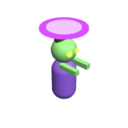
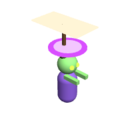
[feat] In-app update check against release.json written by the TestFlight workflow (soft prompt for a newer build, required below min); zombies carry a "좀비" sign board
The workflow now publishes release.json on the `release` branch after each upload (creating the branch on first run); www/update.js holds the pure rules, index.html shows the card and opens the store link.

Changed region(s): [[0.25, 0.0938, 0.7812, 0.8125]]

diff --git a/www/index.html b/www/index.html
@@ -193,6 +193,9 @@
   .ob-days { display: flex; gap: 6px; } .ob-days span { width: 36px; height: 36px; border-radius: 50%; display: grid; place-items: center; background: rgba(255,255,255,.12); font: 13px var(--display); }
   .ob-days span.on { background: var(--star); color: #2a1a05; }
   #onboard .btns { width: min(100%, 300px); margin-top: auto; }
+  /* The update card: same character-and-card look as onboarding, centred, two buttons (one when the update is required). */
+  #update { gap: 18px; background: radial-gradient(circle at 50% 30%, #3b2070 0%, #170a2e 70%); }
+  #update .btns { width: min(100%, 300px); margin-top: 8px; }
   /* Celebration step: a dark violet glow, the face popping in, the stars landing one after another. */
   #cheer { background: radial-gradient(circle at 50% 38%, #3b2070 0%, #170a2e 65%); justify-content: center; gap: 18px; }
   #cheer .cheer-face { width: 168px; height: 168px; animation: cheerpop .6s cubic-bezier(.2, 1.6, .4, 1) both; }
@@ -534,6 +537,11 @@
   <div class="obcard"><img class="ico big" id="ob-ico" src="img/ui/moon.svg" alt=""><p id="ob-body"></p><div class="ob-days hidden" id="ob-days"></div></div>
   <div class="btns"><div class="btn hero" id="btn-ob">계속</div></div>
 </div>
+<div id="update" class="overlay hidden">
+  <div class="obtalk"><img class="face-big" id="up-face" src="img/ui/face-excited.svg" alt=""><div class="bubble" id="up-say"></div></div>
+  <div class="obcard"><img class="ico big" src="img/ui/gift.svg" alt=""><p id="up-body"></p></div>
+  <div class="btns"><div class="btn hero" id="btn-update">업데이트</div><div class="btn ghost" id="btn-update-later">나중에</div></div>
+</div>
 <div id="daily" class="overlay hidden">
   <div class="dexwin">
     <div class="dexhead"><span>출석 보상</span><span class="x" id="btn-daily-back" aria-label="닫기" style="margin-left: auto">×</span></div>
@@ -685,6 +693,7 @@
 <script src="config.js"></script>
 <script src="sync.js"></script>
 <script src="account.js"></script>
+<script src="update.js"></script>
 <script>
 (() => {
   'use strict';
@@ -1984,7 +1993,7 @@
 
   function show(id) {
     if (id && id !== 'pause') { Sound.music.mode('title'); Sound.music.rush(false); if (id === 'title') Sound.music.tune('town'); } // menus get the quiet arrangement
-    for (const o of ['title', 'onboard', 'select', 'pause', 'cheer', 'end', 'no3d', 'shop', 'account', 'ranking', 'dex', 'badges', 'info', 'levelinfo', 'twist', 'cont', 'daily', 'missions']) $(o).classList.toggle('hidden', o !== id);
+    for (const o of ['title', 'onboard', 'update', 'select', 'pause', 'cheer', 'end', 'no3d', 'shop', 'account', 'ranking', 'dex', 'badges', 'info', 'levelinfo', 'twist', 'cont', 'daily', 'missions']) $(o).classList.toggle('hidden', o !== id);
     $('hud').classList.toggle('hidden', id !== null && id !== 'pause');
     if (id !== null) $('tutorial').classList.add('hidden');
   }
@@ -2364,7 +2373,7 @@
   // ---------- cloud save ----------
   // updatedAt moves only on real changes (a finished run, a wallet that differs), never on loading or on
   // applying a merged save, so an old phone that is merely opened cannot win the "newest save" rule.
-  const Account = window.DuskAccount;
+  const Account = window.DuskAccount, Update = window.DuskUpdate;
   let meta = { updatedAt: 0, syncedAt: null }, applying = false, lastWallet = null;
   const touched = () => { meta.updatedAt = Date.now(); save('dusk-sync-meta', meta); if (Account.user) Account.sync(); };
   const accountHooks = {
@@ -2431,14 +2440,74 @@
   $('ob-skip').addEventListener('pointerup', endOnboard);
 
   const whenReady = f => () => ready.then(f);
+
+  // ---------- update check ----------
+  // While saves load, the app's build (App plugin) is compared with the newest one in release.json (DuskUpdate). A newer build
+  // asks once per build ("업데이트" / "나중에"); a build below the file's `min` has to update before playing. Offline, slow (4 s),
+  // or in the browser demo the game simply starts. Tests inject { build, info } as __DUSK_TEST__.update.
+  let appBuild = 0;
+  async function updateDecision() {
+    const T = window.__DUSK_TEST__ && window.__DUSK_TEST__.update;
+    const cap = window.Capacitor, App = cap && cap.Plugins && cap.Plugins.App;
+    let info = T ? T.info : null;
+    try {
+      if (T) appBuild = +T.build;
+      else {
+        if (!(cap && cap.isNativePlatform && cap.isNativePlatform()) || !App) return null;
+        appBuild = +(await App.getInfo()).build;
+        const ctl = new AbortController(), tm = setTimeout(() => ctl.abort(), 4000);
+        const res = await fetch(Update.RELEASE_URL + '?t=' + Math.floor(Date.now() / 300000), { cache: 'no-store', signal: ctl.signal }); // past the CDN cache every 5 min
+        clearTimeout(tm); if (!res.ok) return null;
+        info = (await res.json()).ios;
+      }
+    } catch (e) { return null; }
+    let skipped = 0; try { skipped = +localStorage.getItem('dusk-update-skip'); } catch (e) { /* no storage: ask again next time */ }
+    const u = Update.check(appBuild, info, Date.now(), skipped);
+    return u.kind === 'none' ? null : u;
+  }
+  const updateCheck = updateDecision(); // starts at load, alongside `ready`
+  let updateShown = null;
+  function openUpdate(u) {
+    const force = u.kind === 'force', store = Update.storeName(u.url);
+    updateShown = u;
+    $('up-face').src = `img/ui/face-${force ? 'determined' : 'excited'}.svg`;
+    $('up-say').textContent = force ? '업데이트가 필요해!' : '새 버전이 나왔어!';
+    $('up-body').textContent = force
+      ? `지금 버전(빌드 ${appBuild})은 더 쓸 수 없어요. ${store}에서 빌드 ${u.latest}로 업데이트하면 바로 이어서 할 수 있어요.`
+      : `새 빌드가 올라왔어요: ${appBuild} → ${u.latest}. ${store}에서 업데이트하면 새로 바뀐 것들을 볼 수 있어요.`;
+    $('btn-update').textContent = `${store}에서 업데이트`;
+    $('btn-update').classList.toggle('hidden', !u.url);
+    $('btn-update-later').classList.toggle('hidden', force);
+    state = 'update'; show('update');
+  }
+  // TestFlight / App Store links (itms-…) are custom schemes: the web view hands them to iOS, which opens the store app.
+  function openStore(url) {
+    const cap = window.Capacitor, Browser = cap && cap.Plugins && cap.Plugins.Browser;
+    if (window.__DUSK_TEST__) { window.__DUSK_TEST__.opened = url; return; }
+    if (/^https:/.test(url) && Browser) Browser.open({ url }).catch(() => { location.href = url; });
+    else location.href = url;
+  }
+  $('btn-update').addEventListener('pointerup', () => { if (updateShown && updateShown.url) openStore(updateShown.url); });
+  $('btn-update-later').addEventListener('pointerup', () => {
+    if (!updateShown || updateShown.kind === 'force') return;
+    try { localStorage.setItem('dusk-update-skip', String(updateShown.latest)); } catch (e) { /* asked again next launch */ }
+    updateShown = null; state = 'title'; show('title'); popups();
+  });
+
+  // The title screen's greetings, in order of urgency: an update, the first-run cards, the day's check-in.
+  function popups() {
+    const T = window.__DUSK_TEST__; // automated checks opt in with { daily: true } / { onboard: true }, so popups don't cover their title screen
+    if (state !== 'title') return;
+    if (!onboarded() && !Object.keys(bestStars).length && (!T || T.onboard)) openOnboard();
+    else if (Shop.dailyDue(Store.wallet, dayKey()) && (!T || T.daily)) openDaily();
+  }
   // Saved progress and the store usually load at once; if not, say so instead of a start button that seems dead.
   const slow = setTimeout(() => { $('btn-title').classList.add('wait'); $('btn-title').textContent = '불러오는 중…'; }, 400);
-  ready.then(() => {
+  ready.then(async () => {
     clearTimeout(slow); $('btn-title').classList.remove('wait'); $('btn-title').textContent = '시작';
-    // the day's check-in greets you on the title screen, once a day
-    const T = window.__DUSK_TEST__; // automated checks opt in with { daily: true } / { onboard: true }, so popups don't cover their title screen
-    if (state === 'title' && !onboarded() && !Object.keys(bestStars).length && (!T || T.onboard)) openOnboard();
-    else if (state === 'title' && Shop.dailyDue(Store.wallet, dayKey()) && (!T || T.daily)) openDaily();
+    const u = await updateCheck; // already settled in the common case; capped at 4 s by the fetch
+    if (u && (u.kind === 'force' || state === 'title')) openUpdate(u); // a required update interrupts even a run
+    else popups();
   });
 
   $('btn-shop-title').addEventListener('pointerup', whenReady(() => openShop('title')));

diff --git a/www/render3d.js b/www/render3d.js
@@ -27,7 +27,21 @@
   // A part is a unit geometry scaled by [sx, sy, sz] * object radius, lifted by y * r and
   // shifted by o = [forward, side] * r in the object's own frame. color 'inst' takes the object's
   // own color; glow parts ignore lighting (headlights).
-  const P = (geo, s, y, color, o, glow) => ({ geo, s, y, color, o, glow });
+  const P = (geo, s, y, color, o, glow, tex) => ({ geo, s, y, color, o, glow, tex });
+  // A painted sign board (tex = the words), unlit so it reads at night too: drawn once per word.
+  const signTextures = {};
+  function signTex(text) {
+    if (signTextures[text]) return signTextures[text];
+    // The box's top face maps the canvas's width along the part's forward (long) side, so the words run along the board.
+    const c = document.createElement('canvas'); c.width = 256; c.height = 128;
+    const g = c.getContext('2d');
+    g.fillStyle = '#fff5d6'; g.fillRect(0, 0, 256, 128);
+    g.strokeStyle = '#7a1f1f'; g.lineWidth = 12; g.strokeRect(6, 6, 244, 116);
+    g.fillStyle = '#c8102e'; g.font = 'bold 92px -apple-system, "Apple SD Gothic Neo", "Noto Sans KR", sans-serif';
+    g.textAlign = 'center'; g.textBaseline = 'middle'; g.fillText(text, 128, 68);
+    const t = new T.CanvasTexture(c); t.anisotropy = 4;
+    return (signTextures[text] = t);
+  }
   const HAIR = '#4a3426', SKIN = '#f6d2b0';
   // Prop parts drawn into the shadow map: the crown, canopy or body only (no trunks, poles, fruit or ornaments), the same
   // shapes the game's shade rule models (index.html SHADE, core propShadow). type -> part indices.
@@ -44,7 +58,9 @@
     zombie:    [P('capsule', [0.55, 0.5, 0.55], 1.0, 'inst'), P('sphere', [0.55, 0.55, 0.55], 2.45, '#8fe07a'), P('sphere', [0.3, 0.2, 0.34], 2.88, '#2a3a1e', [-0.12, 0]), // a bald green head with a tuft, so it reads green from above
                 P('box', [0.9, 0.22, 0.22], 1.9, '#8fe07a', [0.6, 0.35]), P('box', [0.9, 0.22, 0.22], 1.9, '#8fe07a', [0.6, -0.35]),
                 P('sphere', [0.13, 0.13, 0.13], 2.5, '#eaff5c', [0.48, 0.2], true), P('sphere', [0.13, 0.13, 0.13], 2.5, '#eaff5c', [0.48, -0.2], true),
-                P('cyl', [1.0, 0.07, 1.0], 3.45, '#d94fff', undefined, true), P('cyl', [0.72, 0.09, 0.72], 3.45, '#f3c6ff', undefined, true)], // a violet halo over the head: flat, so it shows from above
+                P('cyl', [1.0, 0.07, 1.0], 3.45, '#d94fff', undefined, true), P('cyl', [0.72, 0.09, 0.72], 3.45, '#f3c6ff', undefined, true), // a violet halo over the head: flat, so it shows from above
+                // a "좀비" sign on a post above the halo (TestFlight ask): the board lies flat so the word reads from the camera
+                P('cyl', [0.1, 1.3, 0.1], 4.0, '#6b4a2b', [-0.25, 0]), P('box', [3.0, 0.06, 1.6], 4.65, '#fff5d6', [-0.25, 0], true, '좀비')],
     cat:       [P('blob', [1.1, 0.6, 0.6], 0.6, 'inst'), P('sphere', [0.5, 0.48, 0.5], 1.05, 'inst', [1.0, 0]),
                 P('cone', [0.17, 0.4, 0.17], 1.55, 'inst', [1.05, 0.26]), P('cone', [0.17, 0.4, 0.17], 1.55, 'inst', [1.05, -0.26]),
                 P('cyl', [0.12, 1.0, 0.12], 1.0, 'inst', [-1.1, 0])],
@@ -637,7 +653,7 @@
       for (const [type, list] of Object.entries(byType)) {
         for (const part of PARTS[type]) {
           const c = part.color === 'inst' ? '#ffffff' : part.color;
-          const mat = part.glow ? new T.MeshBasicMaterial({ color: col(c) }) : lambert(c);
+          const mat = part.tex ? new T.MeshBasicMaterial({ map: signTex(part.tex) }) : part.glow ? new T.MeshBasicMaterial({ color: col(c) }) : lambert(c);
           const im = new T.InstancedMesh(low[part.geo], mat, list.length);
           im.receiveShadow = true;
           if (CASTERS[type] && CASTERS[type].includes(PARTS[type].indexOf(part))) im.castShadow = true; // shades the ground, as the rule says

diff --git a/test/update.unit.test.js b/test/update.unit.test.js
@@ -1,0 +1,51 @@
+// Layer: Unit — the update-check rules in www/update.js (this build vs release.json), no network, no DOM.
+const test = require('node:test');
+const assert = require('node:assert/strict');
+const U = require('../www/update.js');
+
+const TF = 'itms-beta://beta.itunes.apple.com/v1/app/6828737098';
+const info = (over) => Object.assign({ build: 54, version: '1.0', min: 0, availableAt: '2026-11-13T02:00:00Z', url: TF }, over);
+const NOW = Date.parse('2026-11-13T03:00:00Z');
+
+test('the newest build, already out for a while, is offered once; the same or a newer app is left alone', () => {
+  assert.deepEqual(U.check(53, info(), NOW, 0), { kind: 'soft', latest: 54, url: TF });
+  assert.equal(U.check(54, info(), NOW, 0).kind, 'none');
+  assert.equal(U.check(55, info(), NOW, 0).kind, 'none');
+  assert.equal(U.check('53', info(), NOW, 0).kind, 'soft', 'the App plugin hands the build over as a string');
+});
+
+test('before availableAt (Apple still processing) nothing is offered; after it, it is', () => {
+  const early = Date.parse('2026-11-13T01:50:00Z');
+  assert.equal(U.check(53, info(), early, 0).kind, 'none');
+  assert.equal(U.check(53, info(), Date.parse('2026-11-13T02:00:00Z'), 0).kind, 'soft');
+  assert.equal(U.check(53, info({ availableAt: undefined }), early, 0).kind, 'soft', 'no time in the file: offer at once');
+});
+
+test('"나중에" silences that build only; the next build asks again', () => {
+  assert.equal(U.check(53, info(), NOW, 54).kind, 'none');
+  assert.equal(U.check(53, info({ build: 55 }), NOW, 54).kind, 'soft');
+  assert.equal(U.check(53, info(), NOW, '54').kind, 'none', 'localStorage gives the skip back as a string');
+});
+
+test('below min the update is required, even when skipped and even before availableAt', () => {
+  const early = Date.parse('2026-11-13T01:50:00Z');
+  assert.deepEqual(U.check(50, info({ min: 51 }), early, 54), { kind: 'force', latest: 54, url: TF });
+  assert.equal(U.check(51, info({ min: 51 }), NOW, 0).kind, 'soft', 'min is the oldest build still allowed');
+});
+
+test('only store links are kept; a bad or missing file never blocks play', () => {
+  assert.equal(U.check(53, info({ url: 'javascript:alert(1)' }), NOW, 0).url, '');
+  assert.equal(U.check(53, info({ url: ' https://apps.apple.com/app/id6828737098 ' }), NOW, 0).url, 'https://apps.apple.com/app/id6828737098');
+  assert.equal(U.check(53, info({ url: 'itms-apps://apps.apple.com/app/id6828737098' }), NOW, 0).url, 'itms-apps://apps.apple.com/app/id6828737098');
+  assert.equal(U.check(53, null, NOW, 0).kind, 'none');
+  assert.equal(U.check(53, {}, NOW, 0).kind, 'none');
+  assert.equal(U.check(53, info({ build: 'soon' }), NOW, 0).kind, 'none');
+  assert.equal(U.check(0, info(), NOW, 0).kind, 'none', 'no build of our own (browser demo): nothing to compare');
+  assert.equal(U.check(NaN, info(), NOW, 0).kind, 'none');
+});
+
+test('the button names the store the link opens', () => {
+  assert.equal(U.storeName(TF), 'TestFlight');
+  assert.equal(U.storeName('itms-apps://apps.apple.com/app/id6828737098'), 'App Store');
+  assert.equal(U.storeName('https://apps.apple.com/app/id6828737098'), 'App Store');
+});

diff --git a/www/update.js b/www/update.js
@@ -1,0 +1,30 @@
+// Update check: the app's own build number against the newest one the TestFlight workflow published (release.json on
+// the repository's `release` branch, written after every successful upload). Pure rules only; index.html fetches the
+// file, reads the build from the App plugin, shows the card and opens the store link.
+(function (root) {
+  'use strict';
+  const RELEASE_URL = 'https://raw.githubusercontent.com/alexalim/dusk-eater/release/release.json';
+  // Only links that can lead to TestFlight or the App Store are opened; anything else in the file is ignored.
+  const STORE = /^(https:\/\/|itms-beta:\/\/|itms-apps:\/\/)/;
+
+  // build = this app's CFBundleVersion; info = release.json's platform entry { build, version, min, availableAt, url };
+  // now = Date or ms; skipped = the build the player already tapped "나중에" on.
+  // Returns { kind, latest, url }: 'force' below `min` (play waits for the update), 'soft' when a newer build has been
+  // out long enough for Apple to have processed it (availableAt) and was not skipped, else 'none'.
+  function check(build, info, now, skipped) {
+    const b = Math.floor(+build), latest = info ? Math.floor(+info.build) : 0;
+    const url = info && typeof info.url === 'string' && STORE.test(info.url.trim()) ? info.url.trim() : '';
+    if (!(b > 0) || !(latest > 0)) return { kind: 'none', latest: latest > 0 ? latest : 0, url };
+    if (Math.floor(+info.min) > b) return { kind: 'force', latest, url };
+    const at = info.availableAt ? Date.parse(info.availableAt) : 0;
+    if (latest > b && !(+now < at) && Math.floor(+skipped) !== latest) return { kind: 'soft', latest, url };
+    return { kind: 'none', latest, url };
+  }
+
+  // Where the link goes, for the button label.
+  const storeName = url => (/^itms-beta:/.test(url) ? 'TestFlight' : 'App Store');
+
+  const api = { RELEASE_URL, check, storeName };
+  if (typeof module !== 'undefined' && module.exports) module.exports = api;
+  else root.DuskUpdate = api;
+})(this);

diff --git a/test/e2e/qa.e2e.py b/test/e2e/qa.e2e.py
@@ -376,4 +376,35 @@ with sync_playwright() as p:
     rec('S20', 'first run: 4 onboarding cards with a filling bar and the character talking, 시작하기 opens the map on level 1, not shown again',
         shown and bars == [1, 2, 3, 4] and len(set(says)) == 4 and last == '시작하기' and on_map and sel == '0' and not again and not errs, f'bars={bars} last={last!r} map={on_map} sel={sel} again={again} errs={errs}')
     b.close()
+
+    # S21 update check: an older app sees the card (face, bubble, build numbers, two buttons) before any other popup; 나중에 remembers
+    # that build and the title's greetings follow; a build below `min` gets one button and the start button is covered
+    b = p.chromium.launch(args=GL)
+    REL = "{ build: 60, version: '1.0', min: 0, availableAt: '2026-01-01T00:00:00Z', url: 'itms-beta://beta.itunes.apple.com/v1/app/6828737098' }"
+    def launch(build, extra=''):
+        ctx = b.new_context(viewport={'width': 390, 'height': 844}, device_scale_factor=2, has_touch=True, is_mobile=True)
+        pg = ctx.new_page(); errs = []; pg.on('pageerror', lambda e: errs.append(str(e)))
+        pg.add_init_script(TIMER); pg.add_init_script(f'window.__DUSK_TEST__.onboard = true; window.__DUSK_TEST__.update = {{ build: {build}, info: Object.assign({REL}, {{{extra}}}) }}')
+        pg.goto(URL); pg.wait_for_timeout(700); pg.evaluate(f'{A}.ready'); frames_wait(pg, 6)
+        return pg, errs
+    pg, errs = launch(57)
+    soft = [pg.is_visible('#update'), pg.is_visible('#onboard'), pg.inner_text('#up-say'), pg.inner_text('#up-body'), pg.inner_text('#btn-update'), pg.is_visible('#btn-update-later')]
+    pg.tap('#btn-update'); opened = pg.evaluate('window.__DUSK_TEST__.opened')
+    pg.tap('#btn-update-later'); frames_wait(pg, 3)
+    later = [pg.is_visible('#update'), pg.is_visible('#onboard'), pg.evaluate("localStorage.getItem('dusk-update-skip')")]
+    pg.reload(); pg.wait_for_timeout(700); pg.evaluate(f'{A}.ready'); frames_wait(pg, 6)
+    again = pg.is_visible('#update')
+    pg.context.close()
+    pg, errs2 = launch(57, 'min: 58')  # too old to play
+    force = [pg.is_visible('#update'), pg.inner_text('#up-say'), pg.is_visible('#btn-update-later'), pg.is_visible('#btn-title')]
+    pg.context.close()
+    pg, errs3 = launch(60)  # up to date: straight to the usual greetings
+    same = [pg.is_visible('#update'), pg.is_visible('#onboard')]
+    pg.context.close()
+    rec('S21', 'update check: an old build sees the card first, 업데이트 opens TestFlight, 나중에 remembers the build and lets onboarding through; below min only 업데이트; current build sees nothing',
+        soft == [True, False, '새 버전이 나왔어!', soft[3], 'TestFlight에서 업데이트', True] and '60' in soft[3] and '57' in soft[3] and opened == 'itms-beta://beta.itunes.apple.com/v1/app/6828737098'
+        and later == [False, True, '60'] and not again and force[0] and force[1] == '업데이트가 필요해!' and force[2] is False and force[3] is False
+        and same == [False, True] and not errs and not errs2 and not errs3,
+        f'soft={soft} opened={opened} later={later} again={again} force={force} same={same} errs={errs + errs2 + errs3}')
+    b.close()
 print('SUMMARY', sum(r[2] for r in res), '/', len(res))
